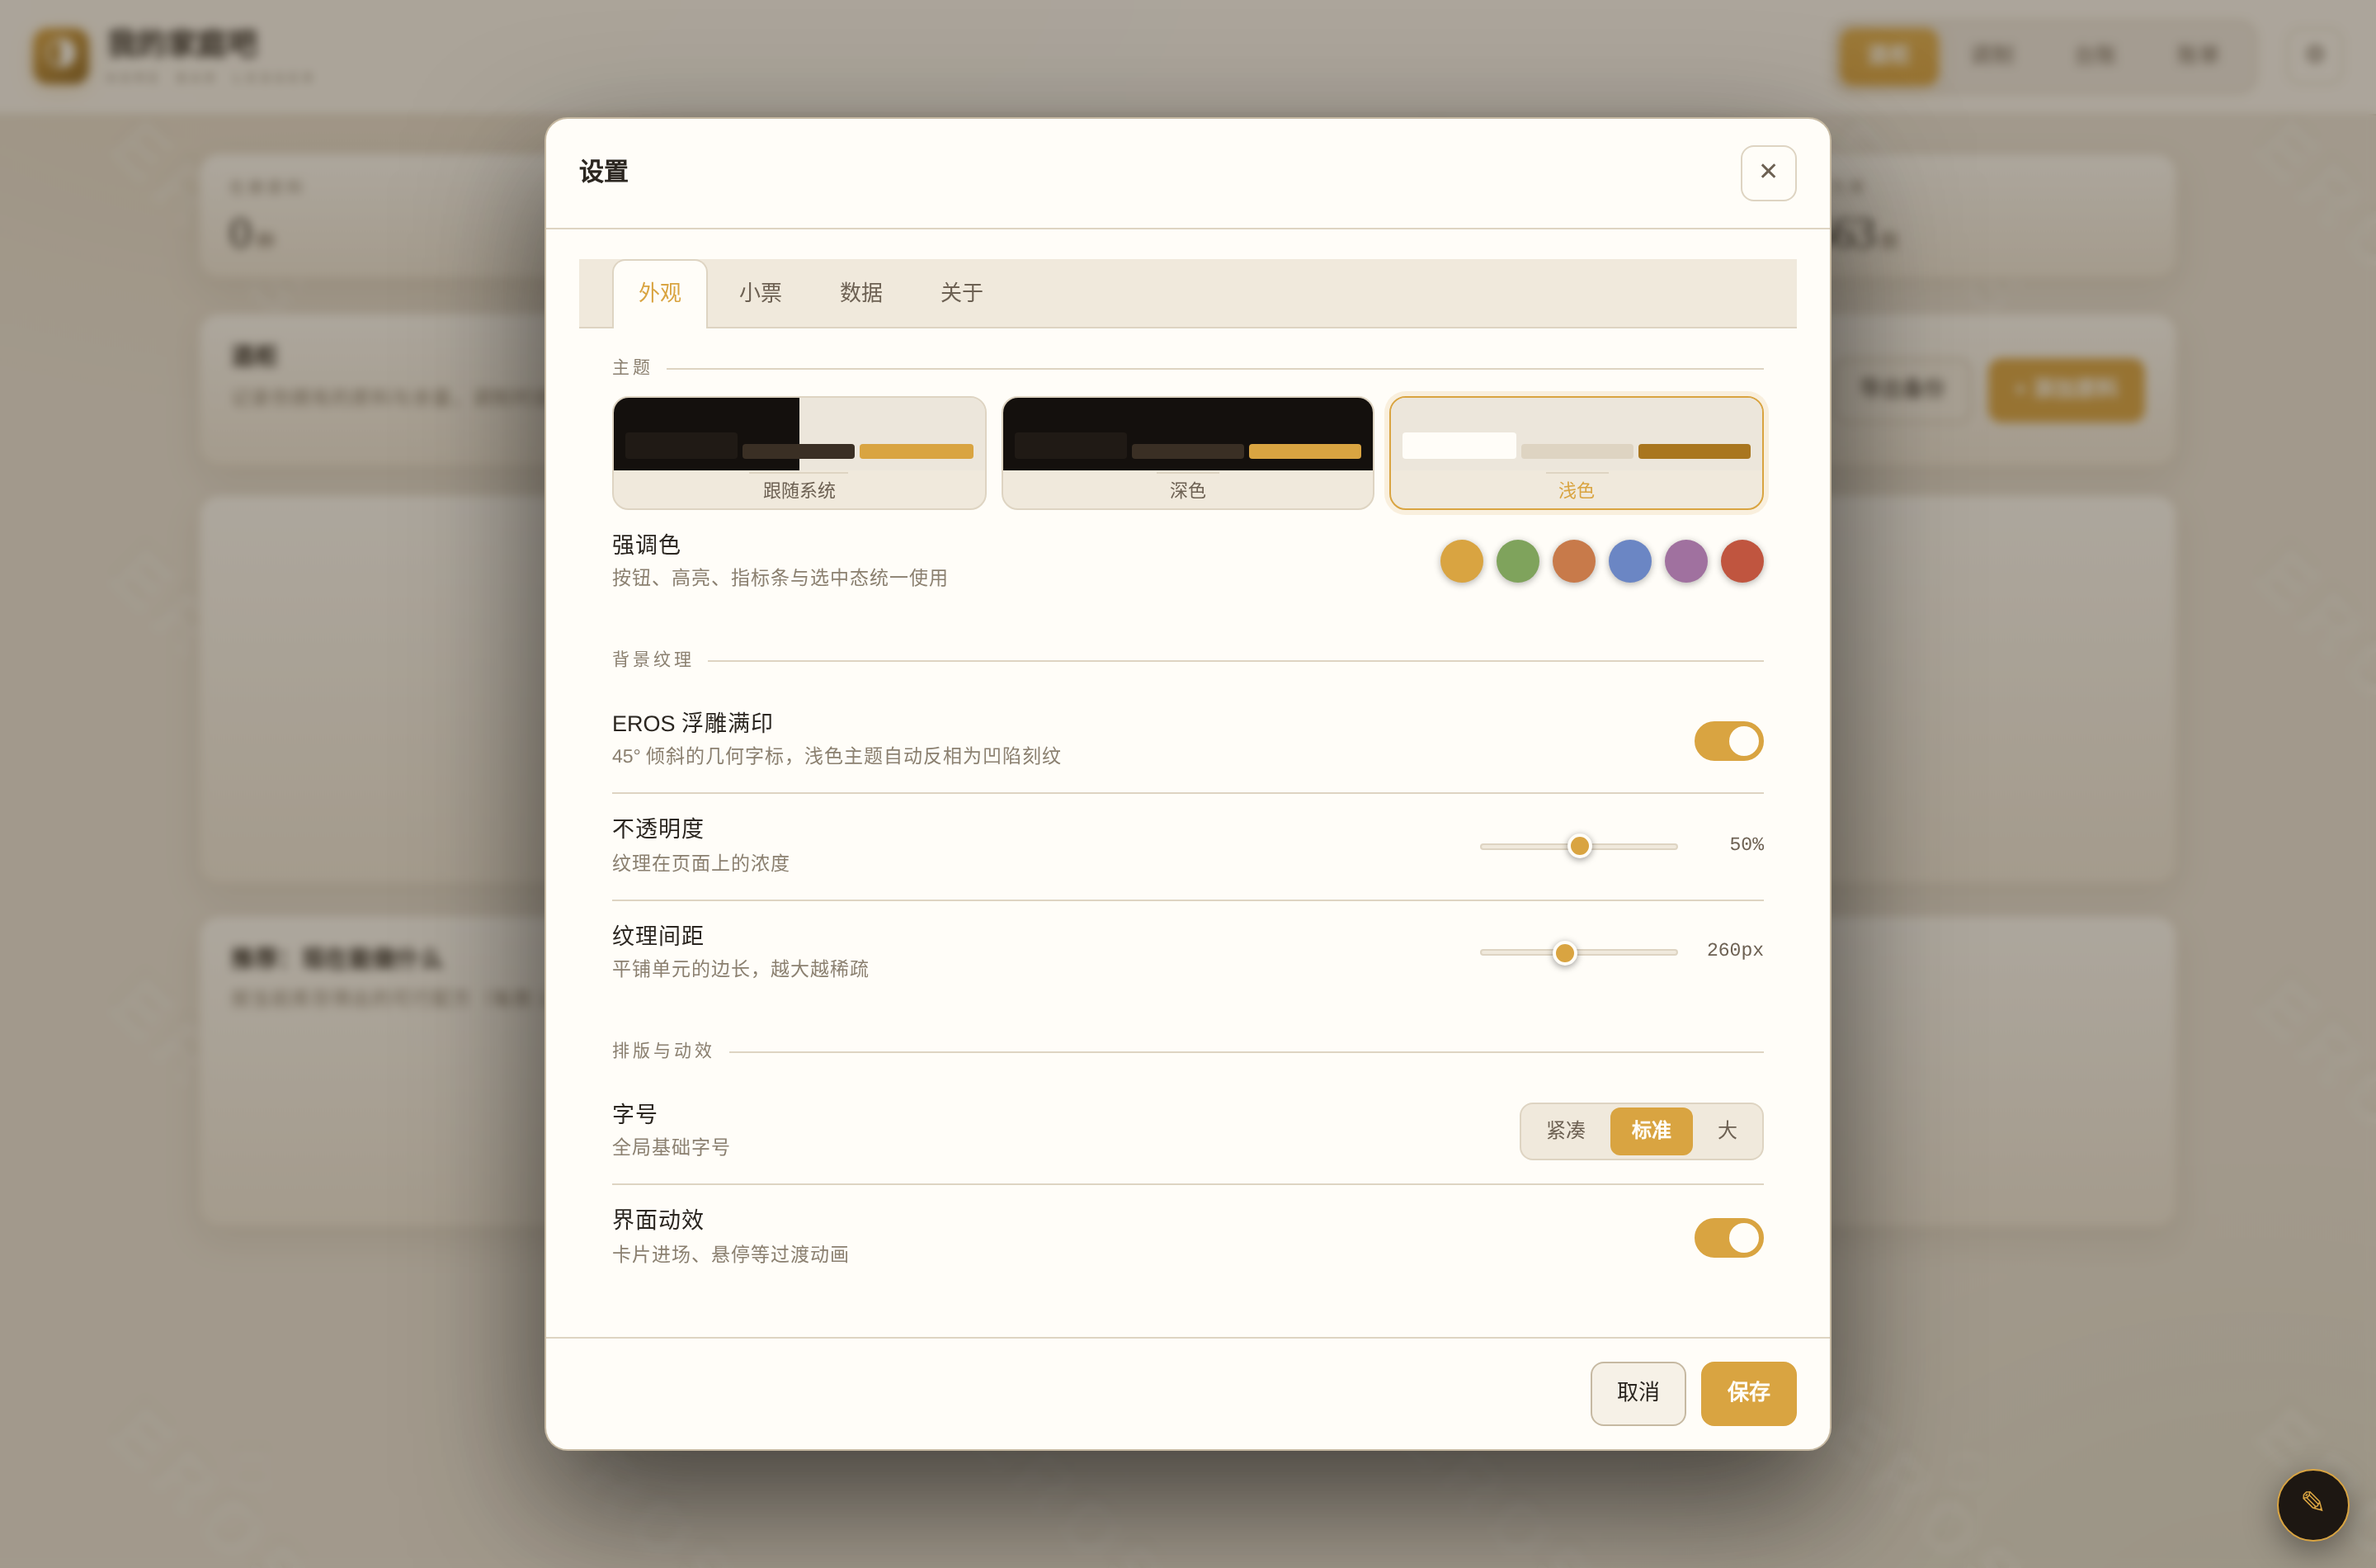
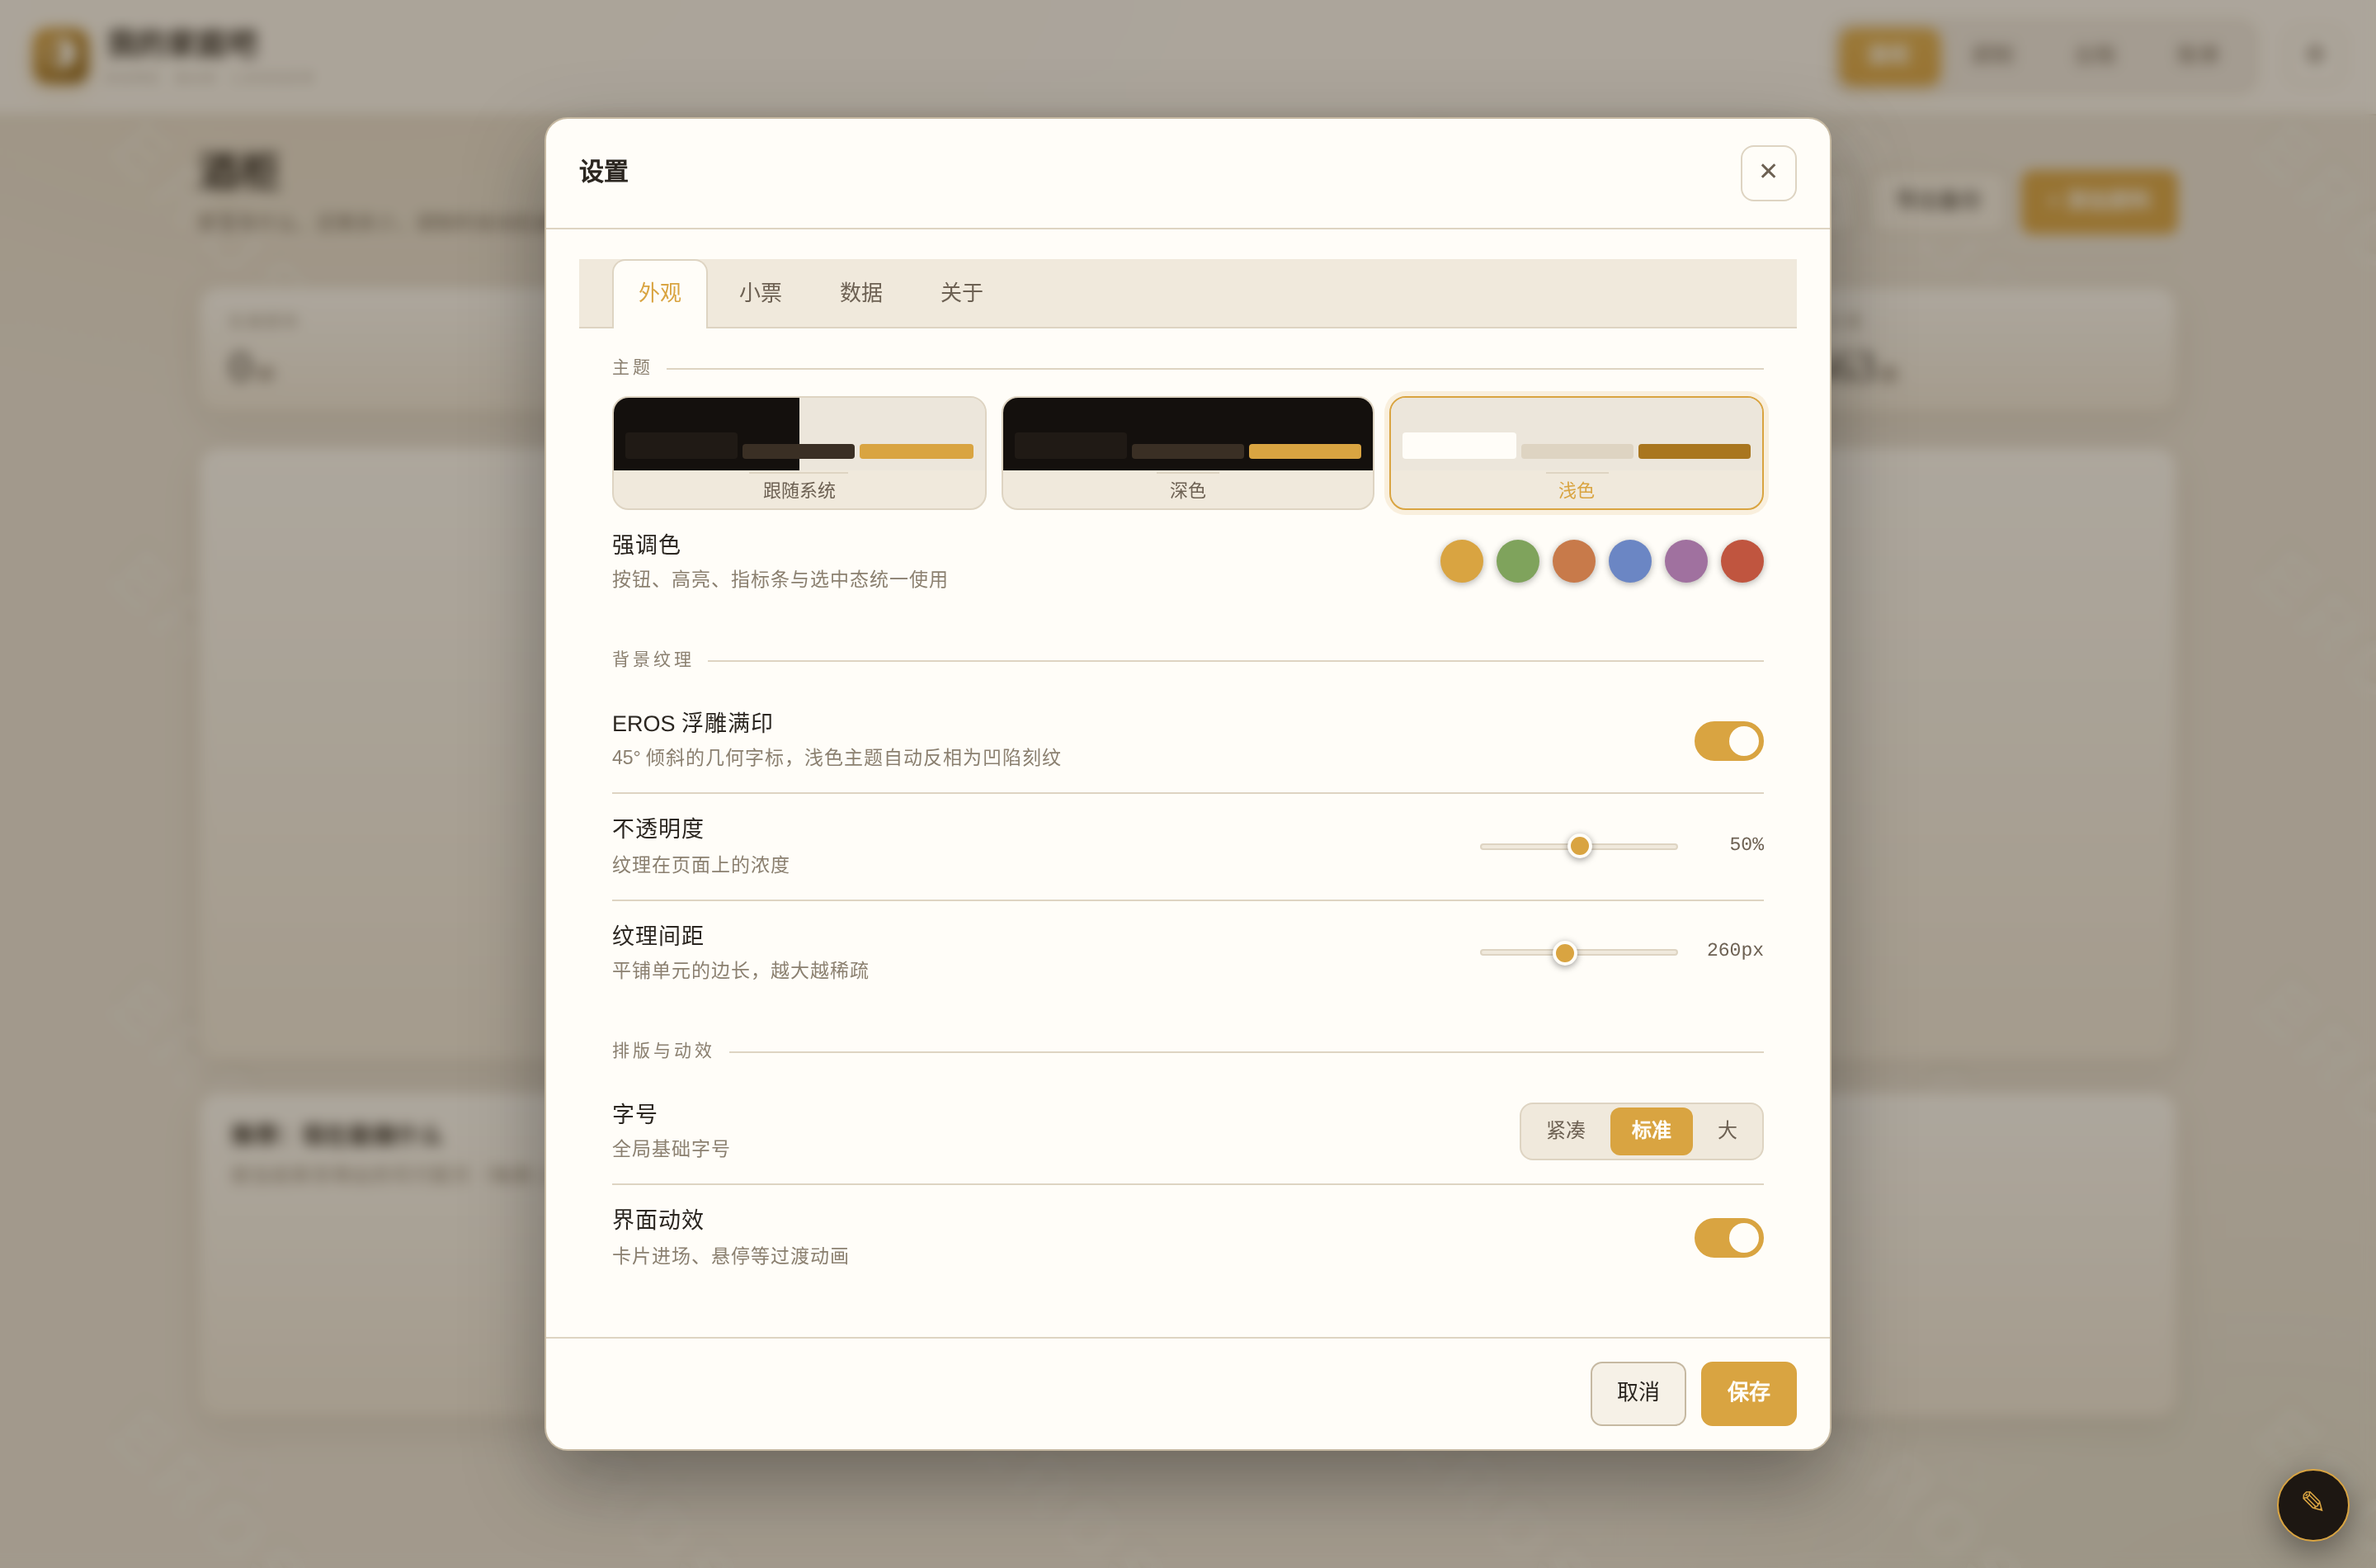
fix(ui): 窄屏页头标题被挤成窄柱
375px 下酒柜页的 .pagehead 标题只有 80px 宽，副标题折成多行，
操作按钮被挤在右侧窄区。

改：max-width:600px 时 .pagehead 改为纵向堆叠，标题占满整行，
操作区落到下一行并允许换行。标题宽度 80px → 349px。

diff --git a/build/app.template.html b/build/app.template.html
@@ -538,6 +538,9 @@ html.no-motion *{animation:none !important;transition:none !important}
   #btnSettings{order:2}
   .tabs{order:3;margin-left:0;width:100%;overflow-x:auto;justify-content:flex-start}
   .tabs button{padding:6px 12px;font-size:12.5px;flex:1 0 auto}
+  /* 窄屏页头：标题与操作区纵向堆叠，避免标题被挤成窄柱 */
+  .pagehead{flex-direction:column;align-items:stretch;gap:var(--sp-3)}
+  .pagehead .phright{flex-wrap:wrap;padding-bottom:0}
   .led{grid-template-columns:auto 1fr;row-gap:6px}
   .led .amt{grid-column:2;text-align:left}
   .stats{grid-template-columns:1fr 1fr;gap:9px}

diff --git a/index.html b/index.html
@@ -538,6 +538,9 @@ html.no-motion *{animation:none !important;transition:none !important}
   #btnSettings{order:2}
   .tabs{order:3;margin-left:0;width:100%;overflow-x:auto;justify-content:flex-start}
   .tabs button{padding:6px 12px;font-size:12.5px;flex:1 0 auto}
+  /* 窄屏页头：标题与操作区纵向堆叠，避免标题被挤成窄柱 */
+  .pagehead{flex-direction:column;align-items:stretch;gap:var(--sp-3)}
+  .pagehead .phright{flex-wrap:wrap;padding-bottom:0}
   .led{grid-template-columns:auto 1fr;row-gap:6px}
   .led .amt{grid-column:2;text-align:left}
   .stats{grid-template-columns:1fr 1fr;gap:9px}
